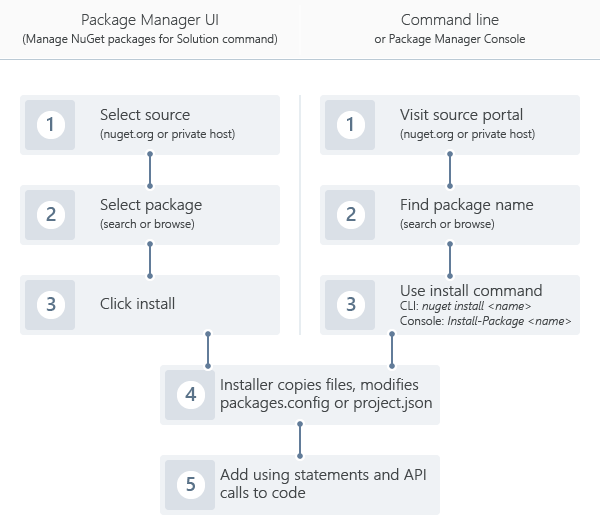
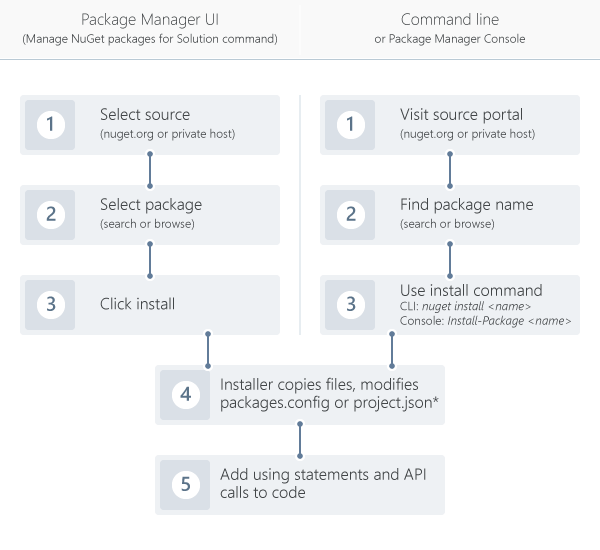
Update graphics with footnote

diff --git a/docs/Consume-Packages/Overview-and-Workflow.md b/docs/Consume-Packages/Overview-and-Workflow.md
@@ -30,12 +30,12 @@ ms.reviewer:
 
 # Package Consumption Overview and Workflow
 
-Between nuget.org and private package galleries that your organization might establish, you can find tens of thousands of highly useful packages to use in your apps and services. But regardless of the source, consuming a package follows the same general workflow:
+Between nuget.org and private package galleries that your organization might establish, you can find tens of thousands of highly useful packages to use in your apps and services. But regardless of the source, consuming a package follows the same general workflow as shown below. For details, see [Finding and Choosing Packages](../consume-packages/finding-and-choosing-packages.md) and the [Use a Package quickstart](../quickstart/use-a-package.md).
 
 ![Flow of going to a package source, finding a package, installing it in a project, then adding a using statement and calls to the package API](media/Overview-01-GeneralFlow.png)
 
-For details, see [Finding and Choosing Packages](../consume-packages/finding-and-choosing-packages.md) and the [Use a Package quickstart](../quickstart/use-a-package.md).
-
+*\* Except with `nuget install` from the command-line, in which case it's necessary to edit the configuration files by hand. See the [install command reference](../tools/nuget.exe-cli-reference#install).*
+ 
 NuGet remembers the identity and version number of each installed package, recording it in either `packages.config` (NuGet 2.x) or `project.json` (NuGet 3.x) in your project root. You can look in the appropriate file at any time to see the full list of  dependencies for your project. 
 
 When installing packages, NuGet typically checks if the package is already available from its cache. You can manually clear this cache from the command line, as described on [Managing the NuGet cache](../consume-packages/managing-the-nuget-cache.md).
